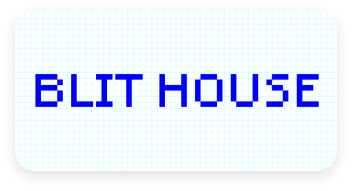
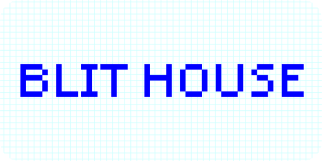
refactor: fixing up project card styling and shadows

diff --git a/src/components/ProjectsCards.tsx b/src/components/ProjectsCards.tsx
@@ -1,5 +1,5 @@
 import React from 'react'
-import styles from './HomepageFeatures.module.css'
+import './styles.css'
 import PartyBid from '@site/static/img/projects/partyBid.png'
 import PunkHouse from '@site/static/img/projects/punkHouse.png'
 import Mirror from '@site/static/img/projects/mirror.png'
@@ -11,15 +11,15 @@ import Artiva from '@site/static/img/projects/artiva.png'
 
 export default function ProjectsCards() {
   return (
-    <div className={styles.projectContainer}>
-      <img src={PartyBid} className={styles.projectCard} />
-      <img src={PunkHouse} className={styles.projectCard} />
-      <img src={Mirror} className={styles.projectCard} />
-      <img src={BlitHouse} className={styles.projectCard} />
-      <img src={Fwb} className={styles.projectCard} />
-      <img src={Catalog} className={styles.projectCard} />
-      <img src={BrightMoments} className={styles.projectCard} />
-      <img src={Artiva} className={styles.projectCard} />
+    <div className={'projectContainer'}>
+      <img src={PartyBid} className={'projectCard'} />
+      <img src={PunkHouse} className={'projectCard'} />
+      <img src={Mirror} className={'projectCard'} />
+      <img src={BlitHouse} className={'projectCard'} />
+      <img src={Fwb} className={'projectCard'} />
+      <img src={Catalog} className={'projectCard'} />
+      <img src={BrightMoments} className={'projectCard'} />
+      <img src={Artiva} className={'projectCard'} />
     </div>
   )
 }
